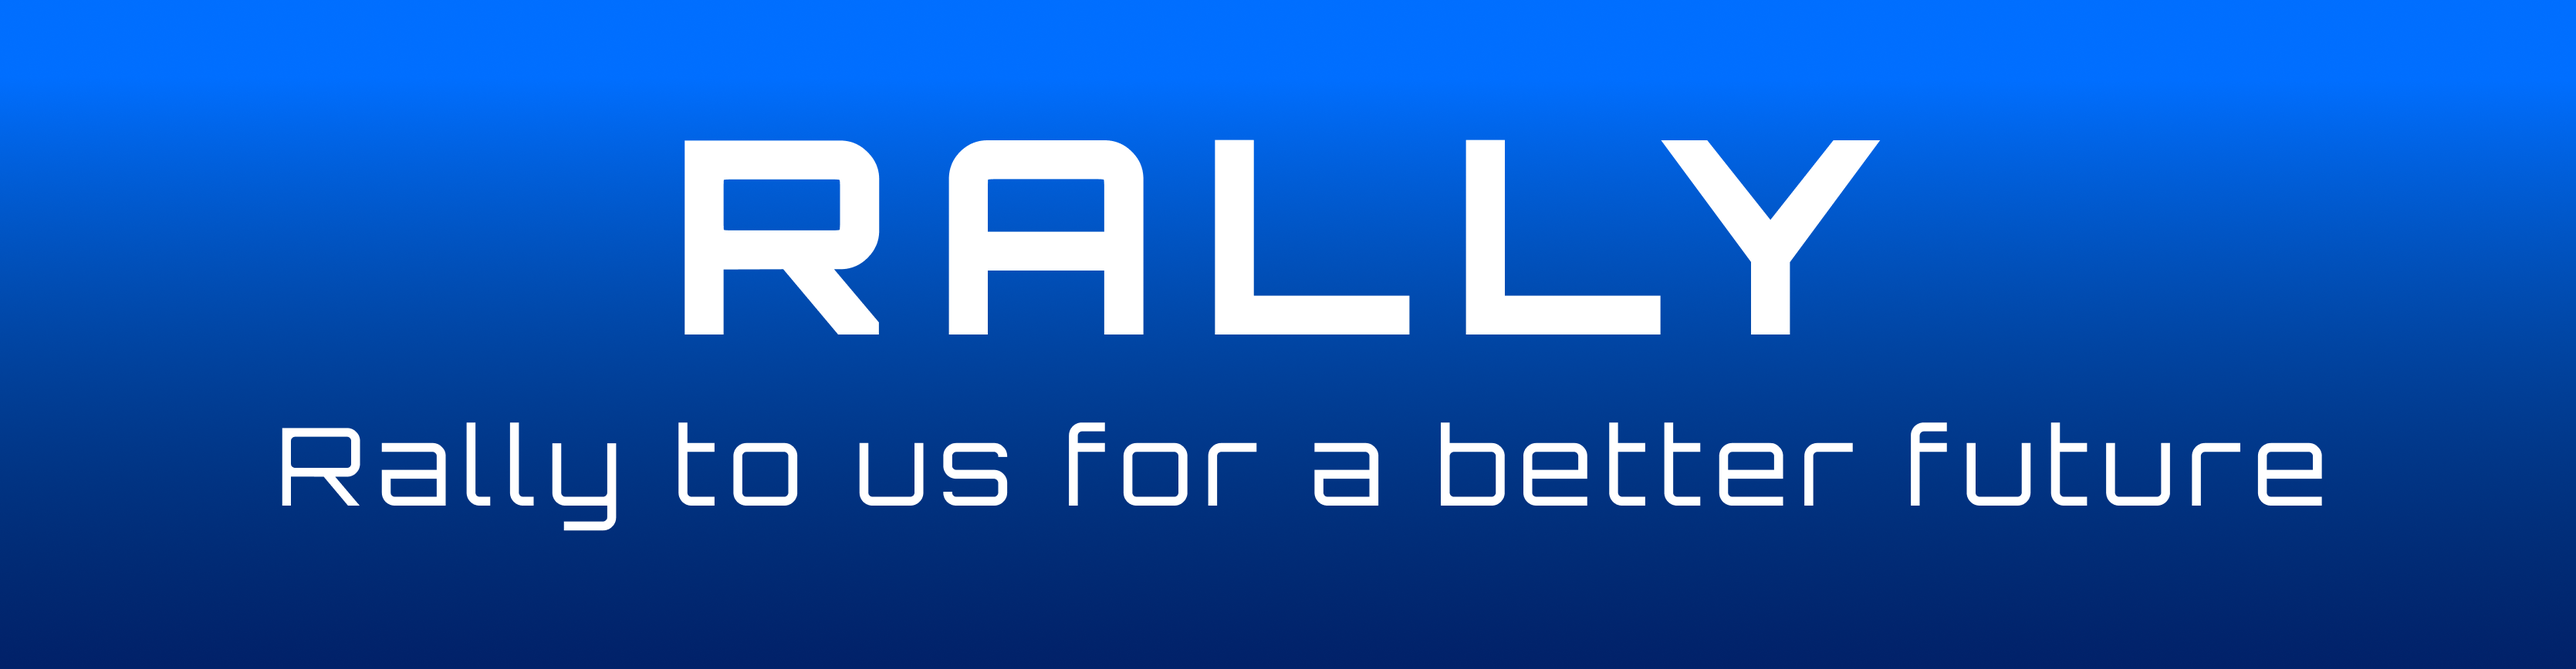
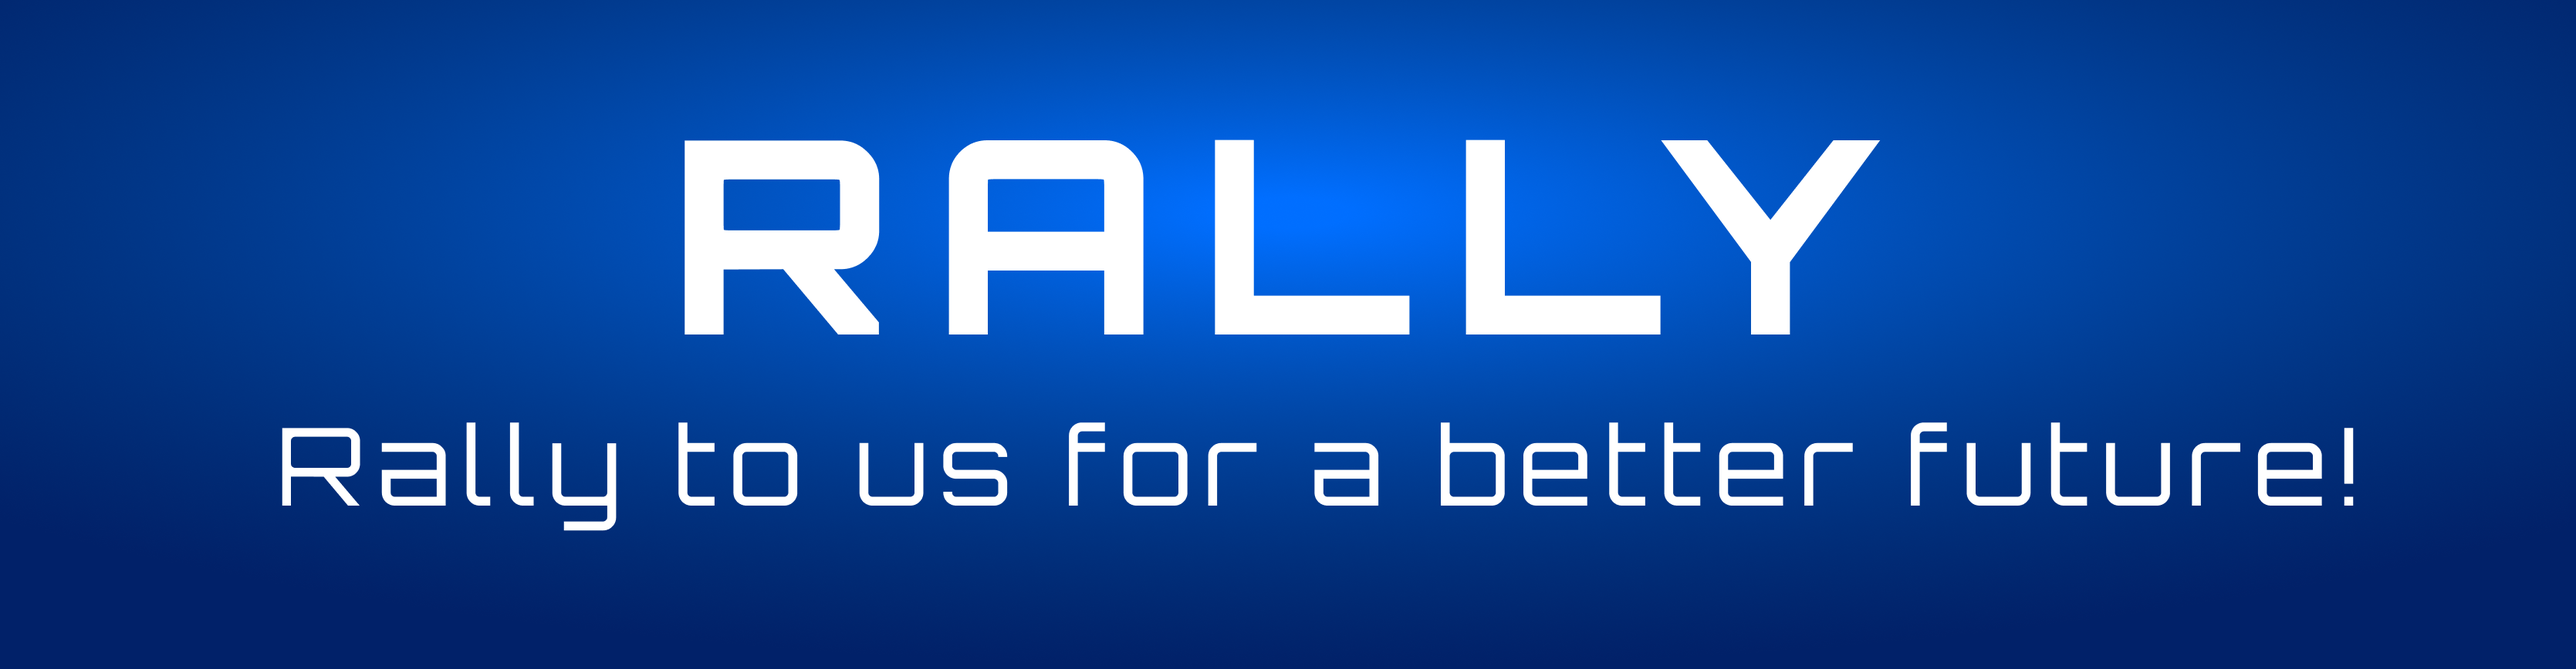
Updated header image

diff --git a/index.html b/index.html
@@ -209,7 +209,7 @@
 
 		<!-- BEGIN Banner -->
 		<section id="banner">
-			<img alt="Header" src="./assets/img/rallyheader2.png">
+			<img alt="Header" src="./assets/img/rallyheader3.png">
 		</section>
 		<!-- END Banner -->
 
